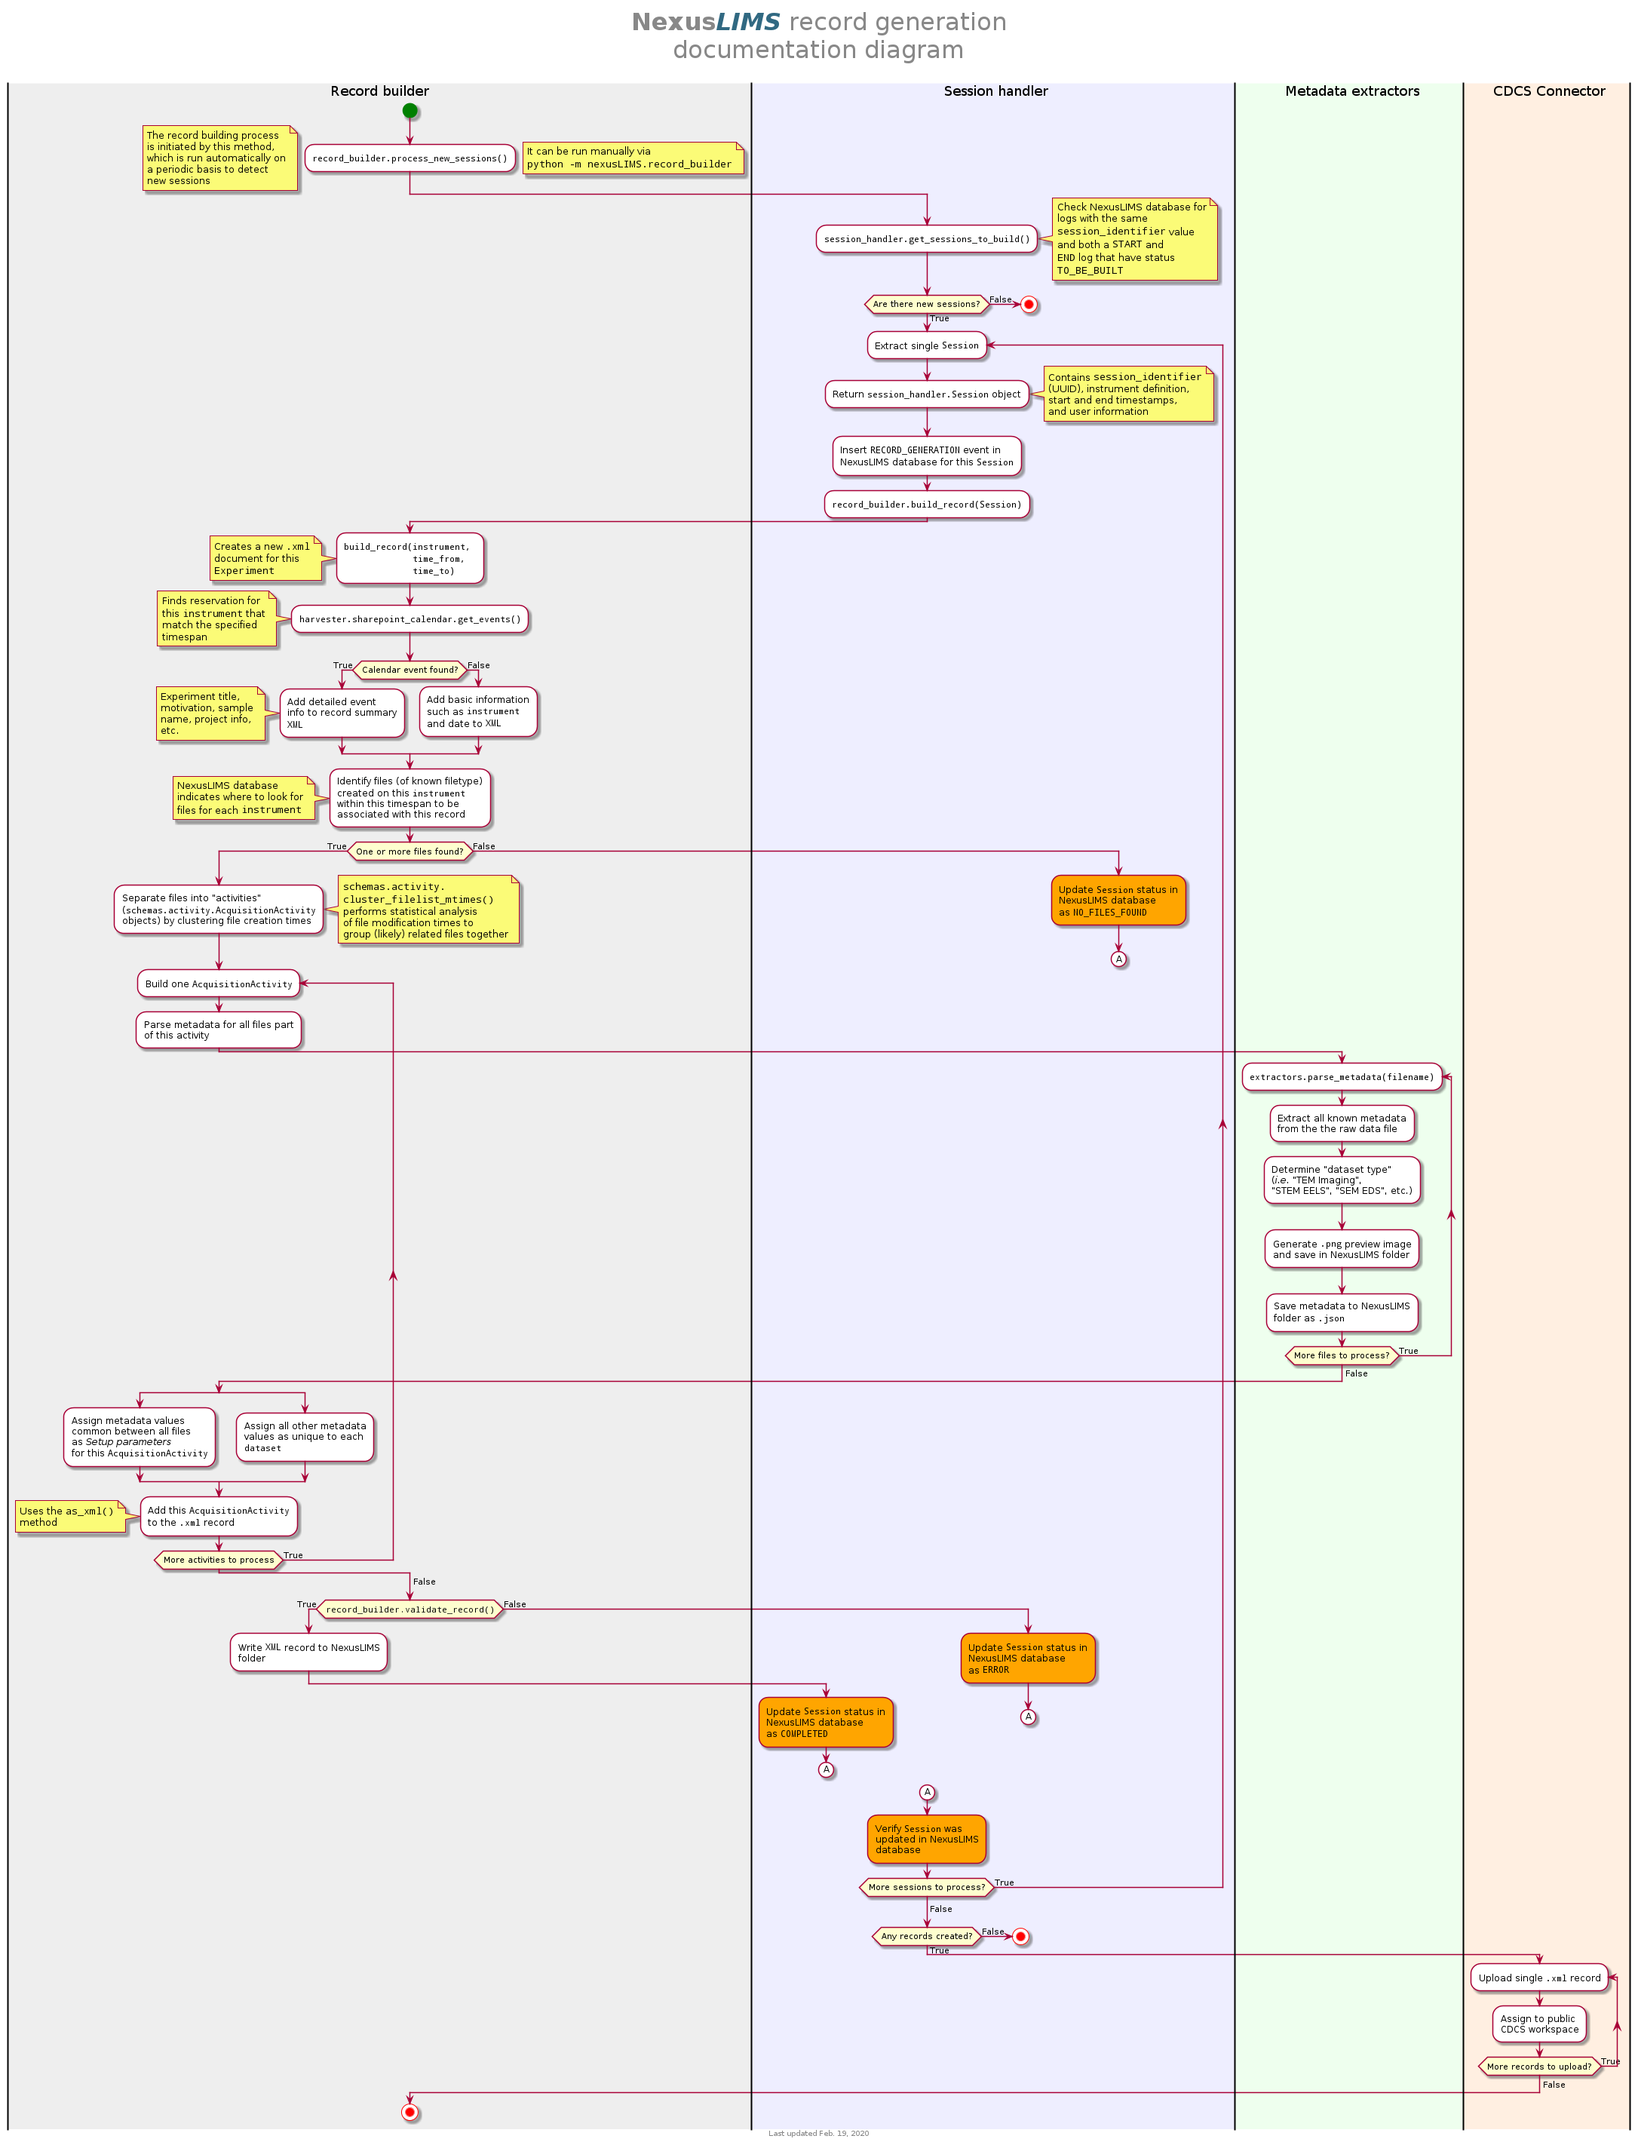
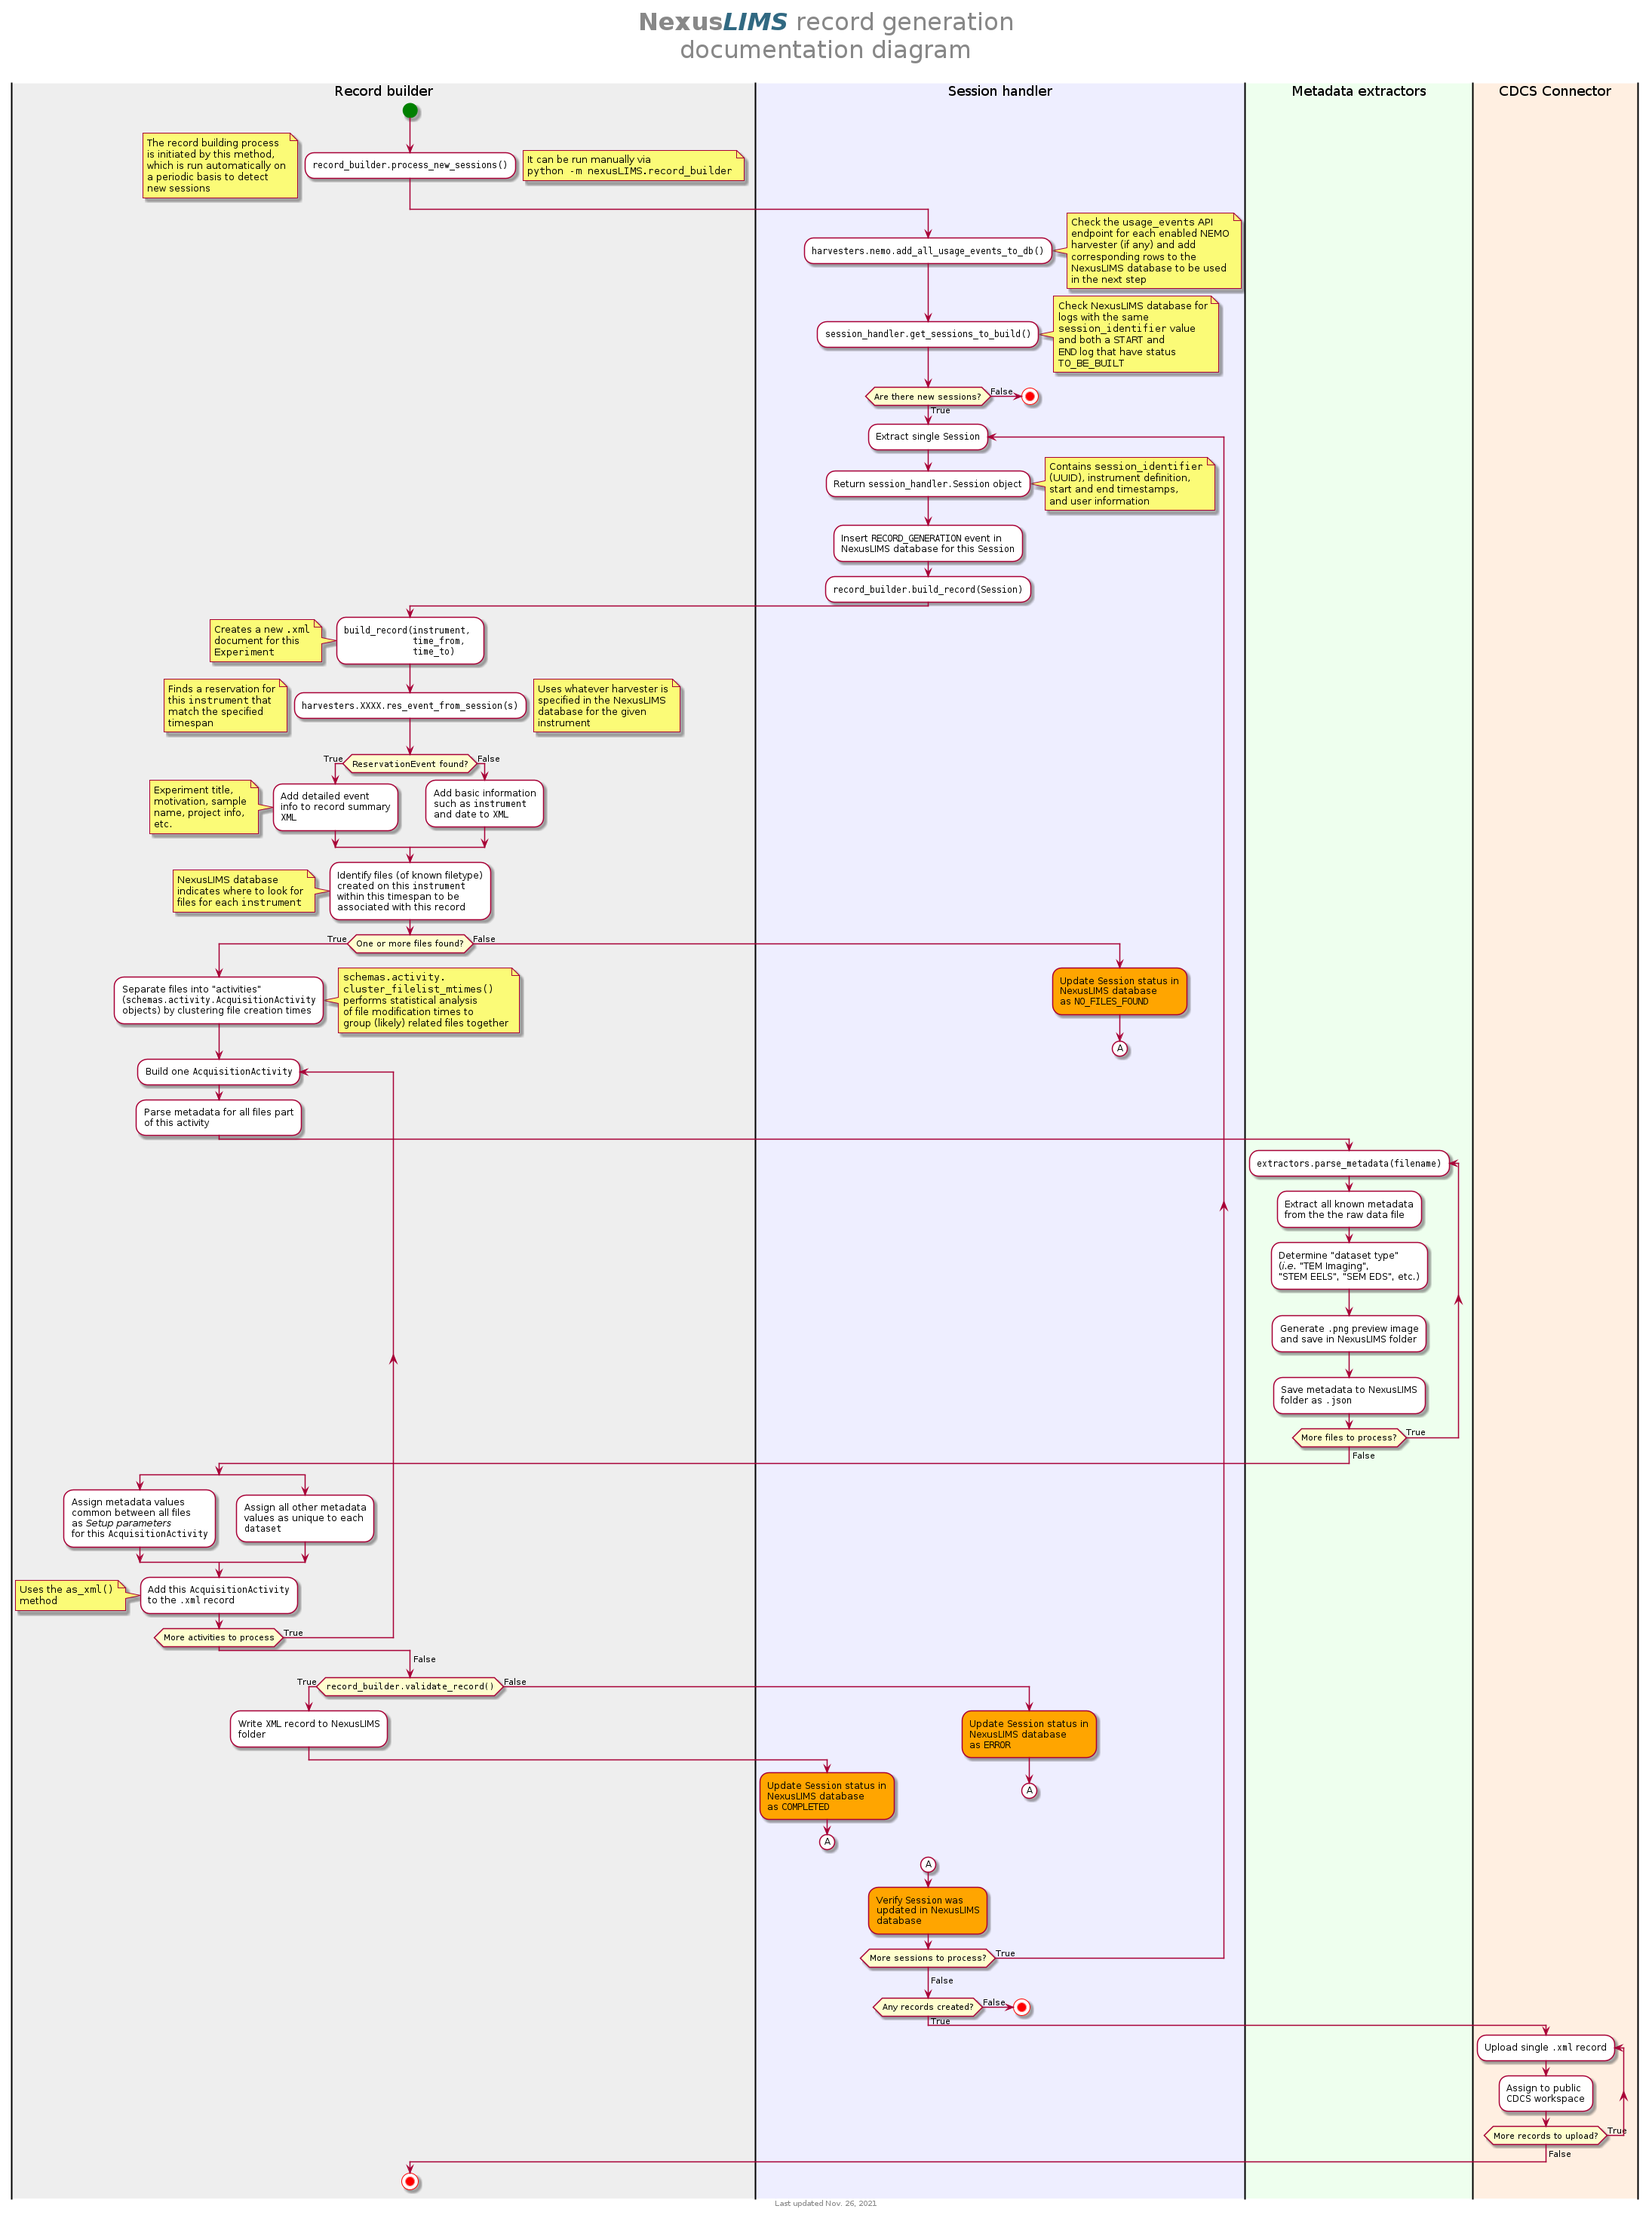
Finish updating documentation

diff --git a/mdcs/nexusLIMS/nexusLIMS/harvesters/__init__.py b/mdcs/nexusLIMS/nexusLIMS/harvesters/__init__.py
@@ -19,10 +19,11 @@ class ReservationEvent:
     """
     A representation of a single calendar reservation, independent of the type
     of calendar the reservation was made with. ``ReservationEvent``
-    is a common interface that is used by the record building code. Sub-modules
-    should contain methods return an instance of this class as needed by
-    parsing their data as needed. Any attribute can be None to indicate it was
-    not present or no value was provided.
+    is a common interface that is used by the record building code.
+    Any attribute can be None to indicate it was not present or no value was
+    provided. The :py:meth:`as_xml` method is used to serialize the information
+    contained within a ``ReservationEvent`` into an XML representation that is
+    compatible with the Nexus Facility ``Experiment`` schema.
 
     Attributes
     ----------

diff --git a/mdcs/nexusLIMS/nexusLIMS/harvesters/nemo.py b/mdcs/nexusLIMS/nexusLIMS/harvesters/nemo.py
@@ -793,7 +793,7 @@ def res_event_from_session(session: Session) -> ReservationEvent:
                                  f"{res['creator']['last_name']} "
                                  f"({res['creator']['username']})",
             start_time=datetime.fromisoformat(res['start']),
-            end_time=datetime.fromisoformat(res['start']),
+            end_time=datetime.fromisoformat(res['end']),
             reservation_type=None, # reservation type is not collected in NEMO
             experiment_purpose=_get_res_question_value('experiment_purpose',
                                                        res),

diff --git a/mdcs/nexusLIMS/doc/source/record_building.rst b/mdcs/nexusLIMS/doc/source/record_building.rst
@@ -78,7 +78,7 @@ log database for any newly created usage events (default is to look back seven
 days for usage events). The record builder then calls
 :py:func:`~nexusLIMS.builder.record_builder.build_new_session_records`, which in
 turn uses :py:func:`~nexusLIMS.db.session_handler.get_sessions_to_build` to
-query the NexusLIMS database for sessions awaiting processing (the database
+query the NexusLIMS database for any sessions awaiting processing (the database
 location can be referenced within the code using the environment variable
 :ref:`nexusLIMS_db_path <nexusLIMS-db-path>` (`e.g.`
 ``os.environ["nexusLIMS_db_path"]``. This method interrogates the database for
@@ -140,10 +140,11 @@ Overview
 
 .. TODO: clarify multiple harvesters here
 
-2.  `(link) <querying-sharepoint_>`_
+2.  `(link) <harvesting-calendar_>`_
     Fetch any associated calendar information for this
-    :py:class:`~nexusLIMS.db.session_handler.Session` using
-    :py:func:`~nexusLIMS.harvesters.sharepoint_calendar.get_events`
+    :py:class:`~nexusLIMS.db.session_handler.Session` using one of the enabled
+    harvesters (currently :py:mod:`~nexusLIMS.harvesters.sharepoint_calendar`
+    or :py:mod:`~nexusLIMS.harvesters.nemo`).
 3.  `(link) <identifying-files_>`_
     Identify files that NexusLIMS knows how to parse within the time range using
     :py:func:`~nexusLIMS.utils.find_files_by_mtime`; if no files are found,
@@ -199,33 +200,35 @@ begins the record by writing basic XML header information before querying the
 reservation system for additional information about the experiment.
 `(go to top) <overview_>`_
 
-.. _querying-sharepoint:
+.. _harvesting-calendar:
 
-2. Querying the SharePoint Calendar
-^^^^^^^^^^^^^^^^^^^^^^^^^^^^^^^^^^^
+2. Querying the Reservation Calendars
+^^^^^^^^^^^^^^^^^^^^^^^^^^^^^^^^^^^^^
 
-Since users must make reservations on the SharePoint calendar, this is an
-important source of metadata for the experimental records created by NexusLIMS.
-Information from these calendar "events" is included throughout the record,
+Since users must make reservations on either the SharePoint calendar or the
+NEMO facility management system, these are
+important sources of metadata for the experimental records created by NexusLIMS.
+Information from these reservation "events" is included throughout the record,
 although it primarily informs the information contained in the ``<summary>``
 element, including information such as who made the reservation, what the
 experiment's motivation was, what sample was examined, etc.
 
-To obtain this information, the
-:py:func:`~nexusLIMS.harvesters.sharepoint_calendar.get_events` function from the
-:py:mod:`~nexusLIMS.harvesters.sharepoint_calendar` harvester module is used.
-This function authenticates to and queries the SharePoint API, and receives
-an XML response representing any reservations found that match the timespan of
-the :py:class:`~nexusLIMS.db.session_handler.Session`. This XML is then
-translated using the XSLT file (path specified by
-:py:data:`~nexusLIMS.builder.record_builder.XSLT_PATH`) into a format that is
-compatible with the Nexus Microscopy Schema. This result is added to the XML
-representation of the current record.
-
-If no matching events are found, some basic details are added to the
-``<summary>`` section of the record using the information that can be accessed,
-such as the instrument the Experiment was performed on, as well as the date and
-time. `(go to top) <overview_>`_
+To obtain this information, the record builder uses whatever harvester module
+is listed in the ``harvester`` column of the NexusLIMS database for that
+instrument. (i.e. either :py:mod:`~nexusLIMS.harvesters.nemo` or
+:py:mod:`~nexusLIMS.harvesters.sharepoint_calendar` as of version
+1.1.0). Each of these modules implements a ``res_event_from_session`` method,
+used by the record builder to return a
+:py:class:`~nexusLIMS.harvesters.ReservationEvent` object representing the
+reservation that overlaps maximally with the unit of time (or a very simple
+generic one, if no matching reservation was found). These functions operate
+serve as an adaptor layer to allow NexusLIMS to generate structurally-uniform
+representations of a reservation from differing calendaring applications.
+From this point on, identical code is used regardless of the original source of
+the reservation information. Once the
+:py:class:`~nexusLIMS.harvesters.ReservationEvent` is obtained,
+it is serialized into XML format that is compatible with the Nexus Microscopy
+Schema. `(go to top) <overview_>`_
 
 .. _identifying-files:
 
